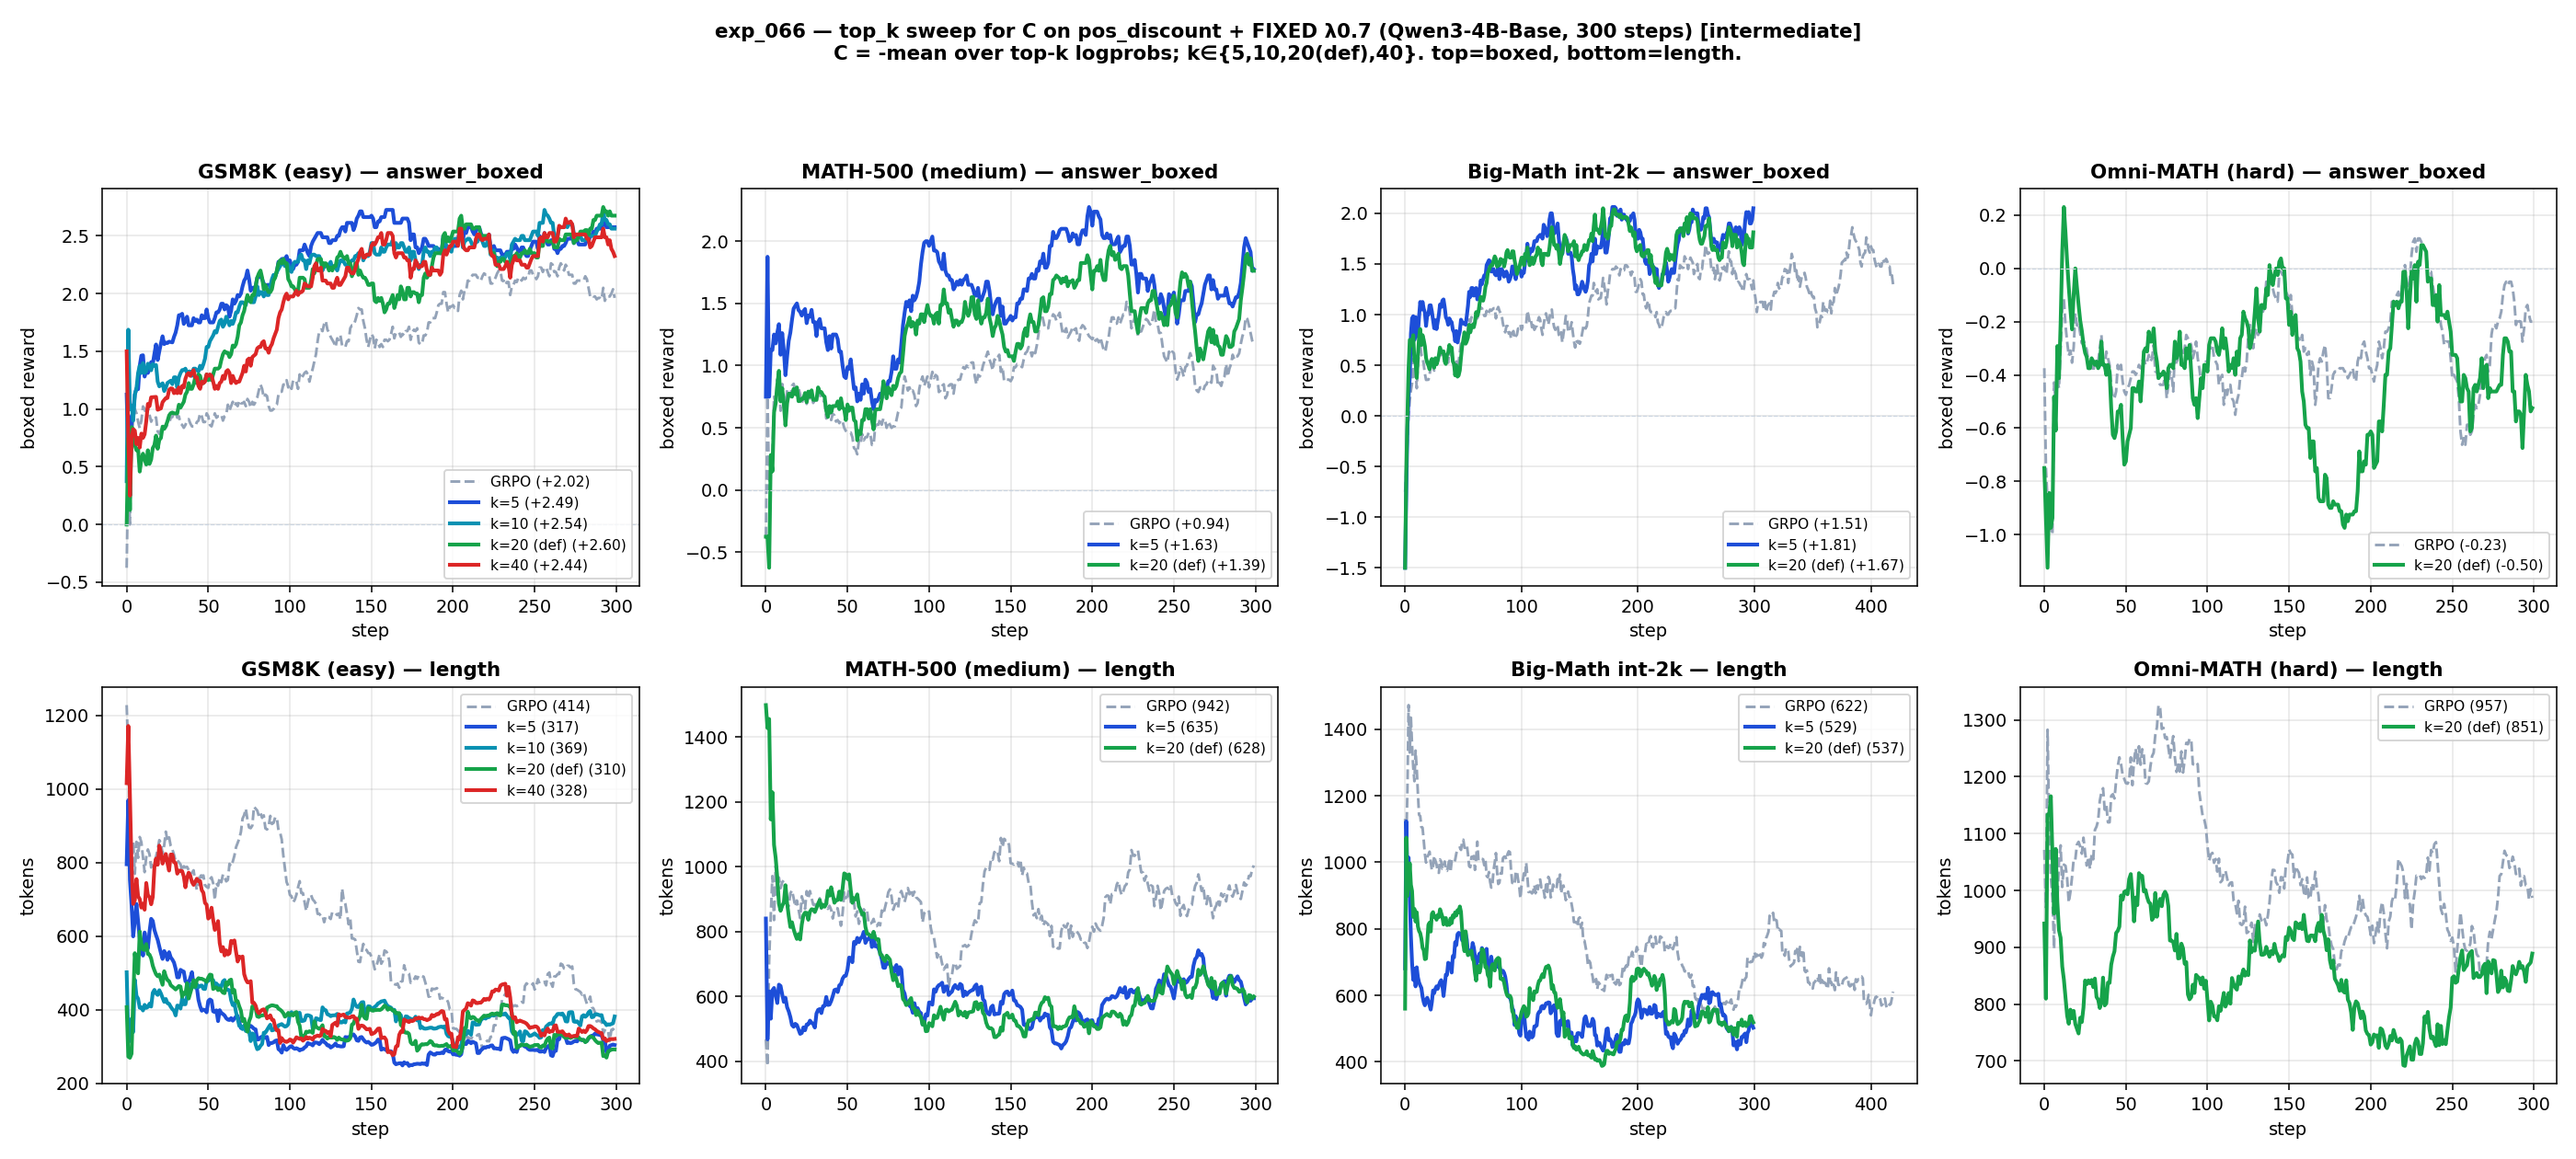
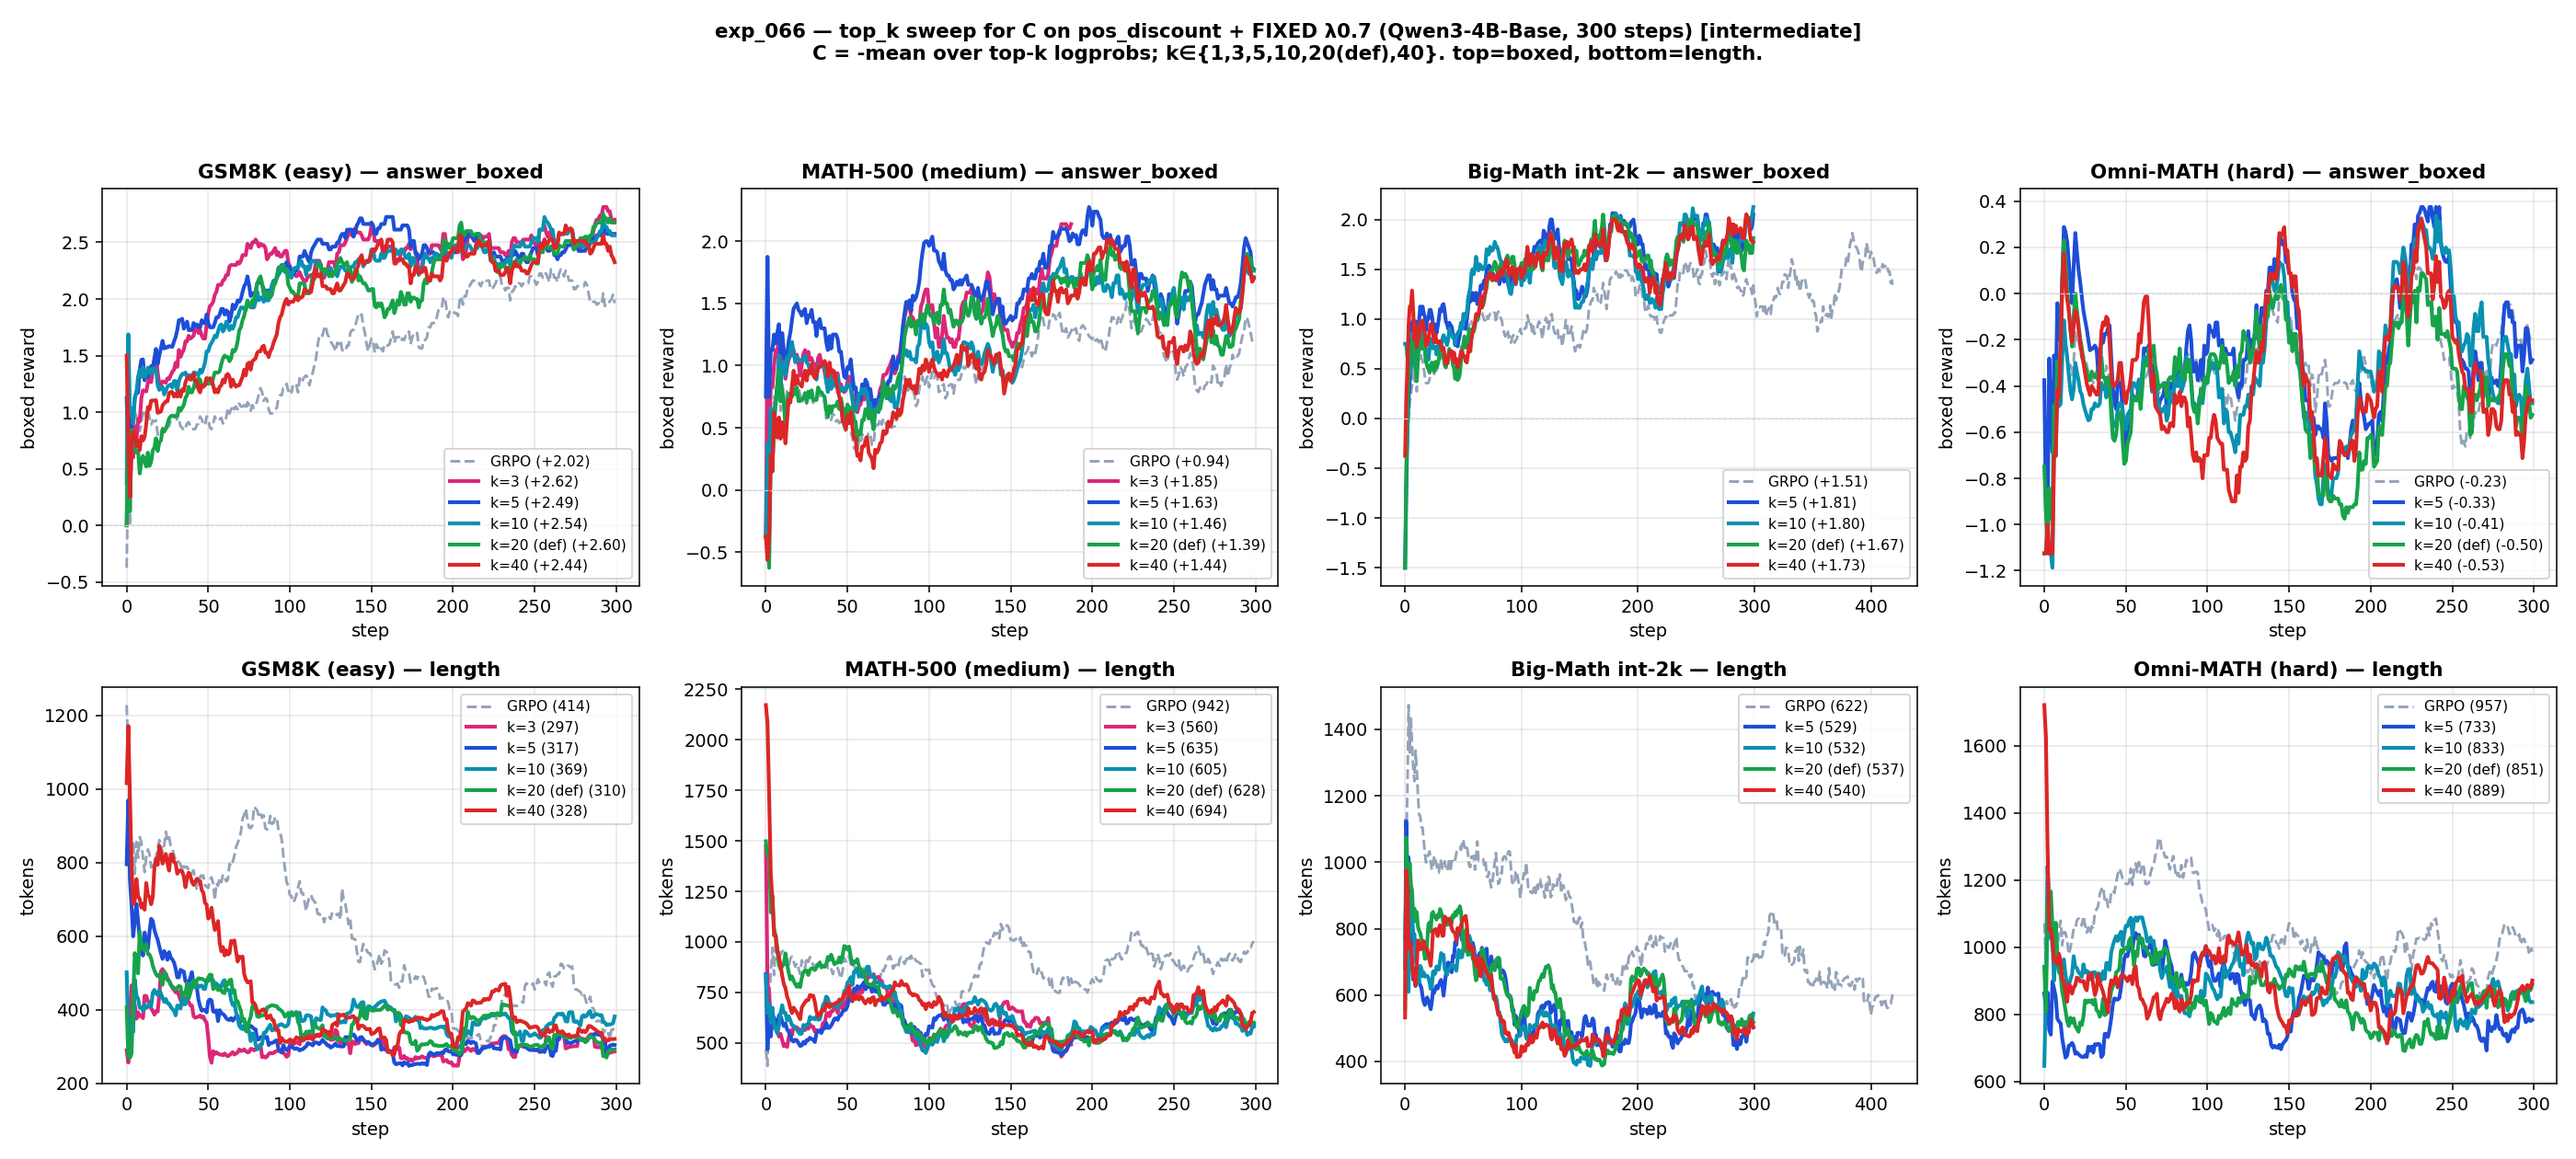
exp_066: intermediate top_k plot incl k=1/k=3 (gsm8k k=3 +2.62 best)

diff --git a/experiments/exp_066_qwen3base_topk_sweep/plot_topk_sweep.py b/experiments/exp_066_qwen3base_topk_sweep/plot_topk_sweep.py
@@ -13,6 +13,8 @@ DATASETS = [("gsm8k", "GSM8K (easy)"), ("math500", "MATH-500 (medium)"),
 # (suffix, label, color)
 CURVES = [
     ("grpo",                "GRPO",        "#94a3b8"),
+    ("posdisc_lam0.7_k1",   "k=1",         "#7c3aed"),
+    ("posdisc_lam0.7_k3",   "k=3",         "#db2777"),
     ("posdisc_lam0.7_k5",   "k=5",         "#1d4ed8"),
     ("posdisc_lam0.7_k10",  "k=10",        "#0891b2"),
     ("posdisc_lam0.7_k20",  "k=20 (def)",  "#16a34a"),
@@ -56,7 +58,7 @@ for j, (ds, ds_lab) in enumerate(DATASETS):
     axl.grid(alpha=0.3); axl.legend(fontsize=8, loc="upper right"); axl.set_xlabel("step"); axl.set_ylabel("tokens")
 
 fig.suptitle("exp_066 — top_k sweep for C on pos_discount + FIXED λ0.7 (Qwen3-4B-Base, 300 steps) [intermediate]\n"
-             "C = -mean over top-k logprobs; k∈{5,10,20(def),40}. top=boxed, bottom=length.",
+             "C = -mean over top-k logprobs; k∈{1,3,5,10,20(def),40}. top=boxed, bottom=length.",
              fontsize=11, weight="bold")
 out = os.path.join(HERE, "figures", "exp066_topk_sweep.png")
 os.makedirs(os.path.dirname(out), exist_ok=True)
